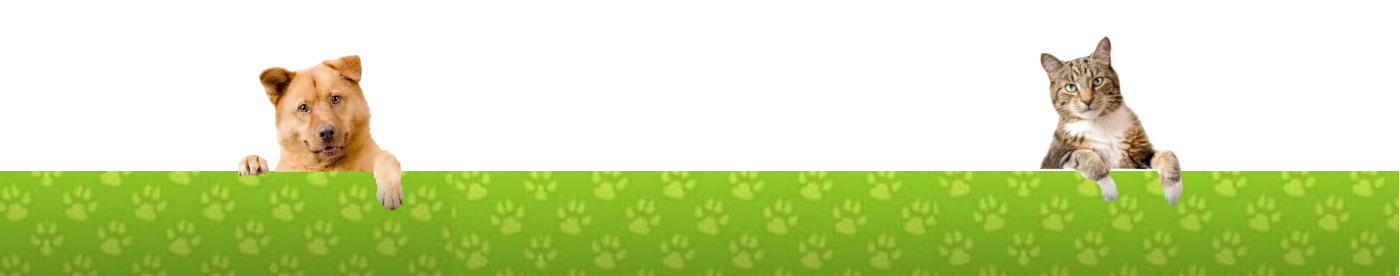
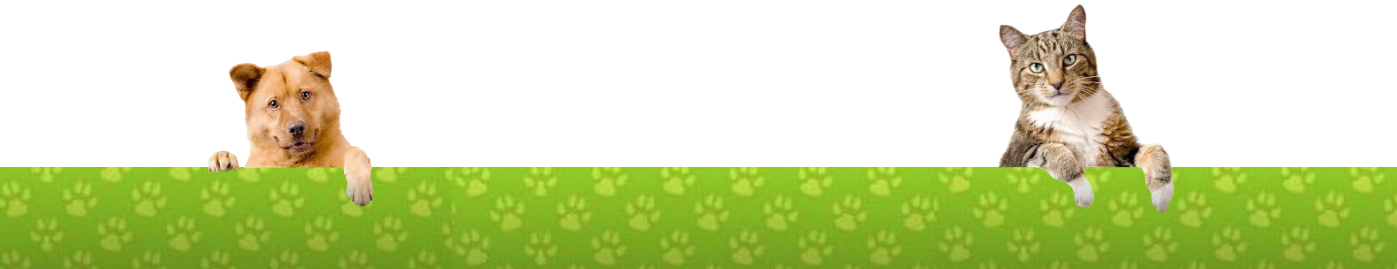
atualizacao

diff --git a/css/style.css b/css/style.css
@@ -52,7 +52,7 @@ img {
 
 .logo {
     grid-row: 1/3;
-    padding: 2% 0 0 2%;
+    margin-left: 2%;
 }
 
 .texto_header {
@@ -60,6 +60,7 @@ img {
     font-size: 1.5rem;
     text-align: justify;
     padding: 11%;
+    font-weight: bold;
 }
 
 .fone_title {
@@ -79,5 +80,14 @@ img {
         font-size: 1.3rem;
     }
 
+    .container {
+        grid-template-rows: 10vh 10vh 70vh 10vh;
+    }
 
+}
+
+@media (max-width: 900px) {
+    .container {
+        grid-template-rows: 15vh 10vh 65vh 10vh;
+    }
 }
